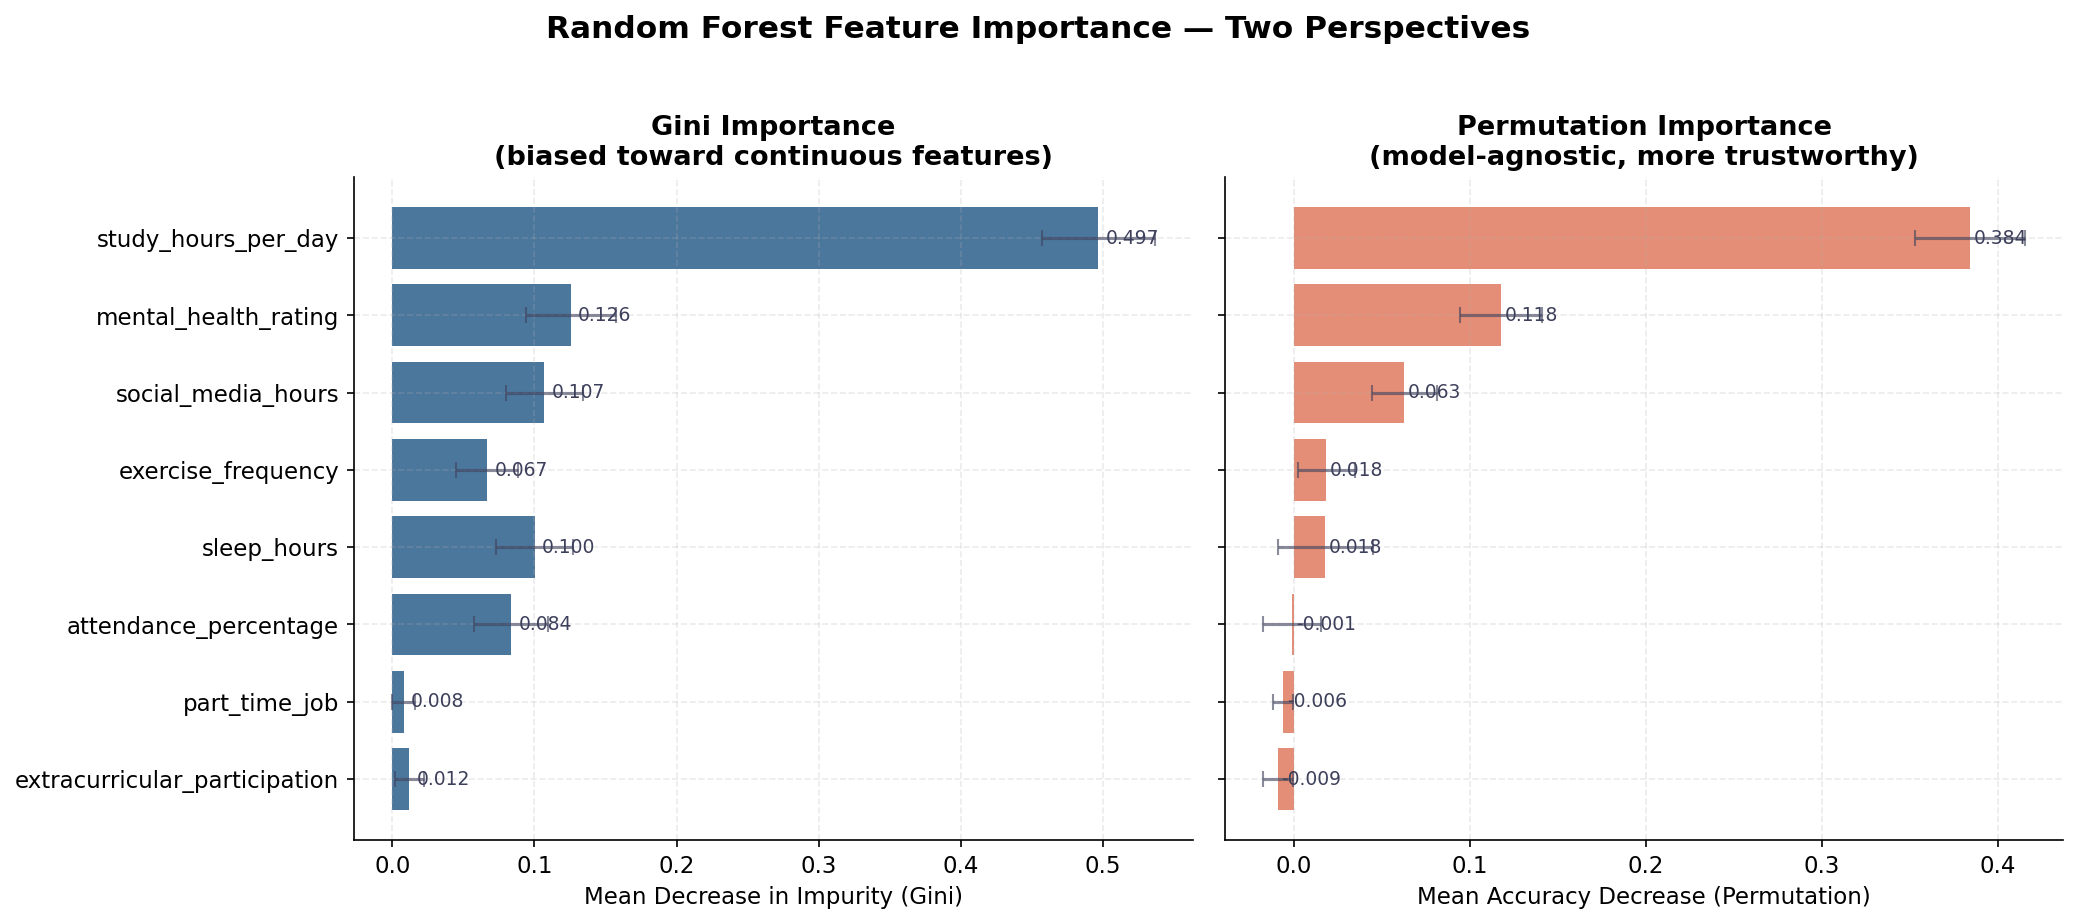
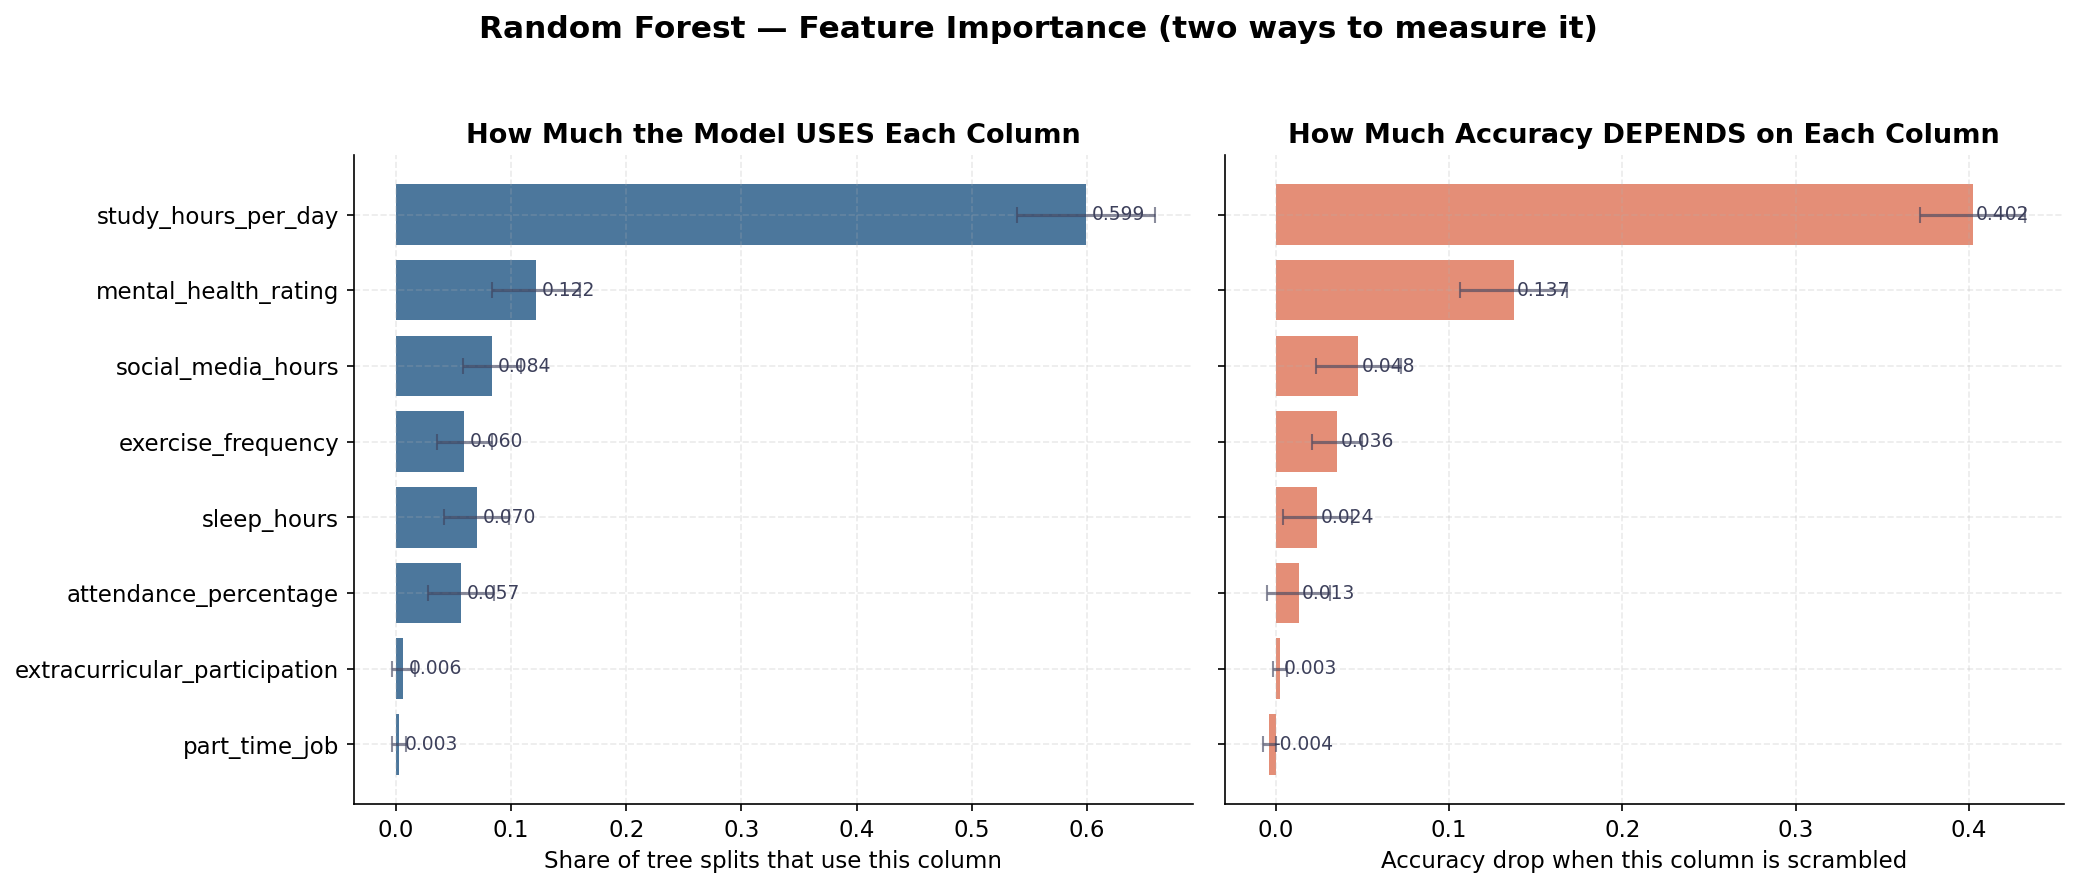
updated rnn and ffnn

diff --git a/src/ffnn.py b/src/ffnn.py
@@ -1,13 +1,15 @@
 import numpy as np
 import pandas as pd
 import matplotlib.pyplot as plt
+import copy
 import torch
 import torch.nn as nn
 from sklearn.model_selection import train_test_split
-from sklearn.metrics import ConfusionMatrixDisplay
+from sklearn.metrics import ConfusionMatrixDisplay, accuracy_score
 
 # set the random seed so its the same for ffnn and rnn,  betetr comparison
 torch.manual_seed(1)
+np.random.seed(1)
 
 class FFNN(nn.Module):
     def __init__(self, input_size):
@@ -81,6 +83,7 @@ student_data = data_processing('data/student_habits_performance.csv')
 
 features_df = student_data.drop(columns=['target'])
 target_df = student_data['target']
+feature_names = list(features_df.columns)
 
 # split data into training and temporary sets (70% train, 30% temp)
 features_train, features_temp, target_train, target_temp = train_test_split(features_df, target_df, test_size=0.3, random_state=1)
@@ -120,6 +123,13 @@ def calculate_accuracy(predictions, targets):
 print("Starting training...")
 num_epochs = 100
 
+# early stopping - same setup as rnn.py. also stash the best weights so we can
+# evaluate the model from the best epoch, not whatever epoch we happen to stop on.
+best_val_loss = float('inf')
+best_weights = None
+patience = 10
+counter = 0
+
 for epoch in range(num_epochs):
     model.train()
     
@@ -140,6 +150,21 @@ for epoch in range(num_epochs):
     
     if (epoch+1) % 10 == 0:
         print(f'Epoch [{epoch+1}/{num_epochs}], Training Loss: {loss.item():.1f}, Validation Loss: {val_loss.item():.4f}, Validation Accuracy: {val_accuracy*100:.2f}%')
+    
+    if val_loss < best_val_loss:
+        best_val_loss = val_loss
+        best_weights = copy.deepcopy(model.state_dict())
+        counter = 0
+    else:
+        counter += 1
+    
+    if counter >= patience:
+        print("Early stopping triggered at epoch {}".format(epoch + 1))
+        break
+
+# restore the best weights so test evaluation uses the model from the best epoch
+if best_weights is not None:
+    model.load_state_dict(best_weights)
 
 print("Training complete.")
 
@@ -153,12 +178,60 @@ with torch.no_grad():
     
     print(f'Real World Accuracy: {test_accuracy*100:.2f}%')
 
+# permutation importance - scramble one column at a time and see how much accuracy drops.
+# this is how we answer "how much does each column matter" for a neural net (the tree-style
+# "how often is this column used" doesnt apply since NNs use every input in every prediction)
+print("\ncomputing permutation importance...")
+baseline_preds = torch.argmax(test_predictions, dim=1).numpy()
+true_classes = y_test_tensor.numpy()
+baseline_acc = accuracy_score(true_classes, baseline_preds)
+
+n_repeats = 30
+rng = np.random.default_rng(1)
+X_test_np = X_test_tensor.numpy()
+
+perm_means = []
+perm_stds = []
+for j, feat in enumerate(feature_names):
+    drops = []
+    for _ in range(n_repeats):
+        X_shuffled = X_test_np.copy()
+        rng.shuffle(X_shuffled[:, j])  # scramble just this column
+        with torch.no_grad():
+            shuffled_preds = torch.argmax(model(torch.tensor(X_shuffled, dtype=torch.float32)), dim=1).numpy()
+        drops.append(baseline_acc - accuracy_score(true_classes, shuffled_preds))
+    perm_means.append(np.mean(drops))
+    perm_stds.append(np.std(drops))
+
+perm_means = np.array(perm_means)
+perm_stds = np.array(perm_stds)
+
+# sort so the most important features end up on top of the chart
+sort_idx = np.argsort(perm_means)
+sorted_names = [feature_names[i] for i in sort_idx]
+
+fig, ax = plt.subplots(figsize=(11, 6))
+y_pos = np.arange(len(sorted_names))
+ax.barh(y_pos, perm_means[sort_idx], xerr=perm_stds[sort_idx],
+        color='#6A4C93', alpha=0.88,
+        error_kw={'ecolor': '#3D405B', 'capsize': 4, 'alpha': 0.6})
+ax.set_yticks(y_pos)
+ax.set_yticklabels(sorted_names)
+ax.set_xlabel('Accuracy drop when this column is scrambled')
+ax.set_title('FFNN — How Much Accuracy DEPENDS on Each Column')
+
+for i, v in enumerate(perm_means[sort_idx]):
+    ax.text(v + 0.002, i, f'{v:.3f}', va='center', fontsize=9, color='#3D405B')
+
+plt.tight_layout()
+plt.savefig('ffnn_feature_importance.png', dpi=150, bbox_inches='tight')
+plt.show()
+
 # confusion matrix for visualization
 print("generating ffnn confusion matrix...")
 
 # turn the pytorch tensors back into numpy arrays so it works w/ confusion matrix
 predicted_classes = torch.argmax(test_predictions, dim=1).numpy()
-true_classes = y_test_tensor.numpy()
 
 ConfusionMatrixDisplay.from_predictions (
     true_classes,

diff --git a/src/rnn.py b/src/rnn.py
@@ -1,13 +1,15 @@
 import numpy as np
 import pandas as pd
 import matplotlib.pyplot as plt
+import copy
 import torch
 import torch.nn as nn
 from sklearn.model_selection import train_test_split
-from sklearn.metrics import ConfusionMatrixDisplay
+from sklearn.metrics import ConfusionMatrixDisplay, accuracy_score
 
 # set the random seed so its the same for ffnn and rnn,  betetr comparison
 torch.manual_seed(1)
+np.random.seed(1)
 
 class RNN(nn.Module):
     def __init__(self, input_size, hidden_layer):
@@ -84,6 +86,7 @@ student_data = data_processing('data/student_habits_performance.csv')
 
 features_df = student_data.drop(columns=['target'])
 target_df = student_data['target']
+feature_names = list(features_df.columns)
 
 # split data into training and temporary sets (70% train, 30% temp)
 features_train, features_temp, target_train, target_temp = train_test_split(features_df, target_df, test_size=0.3, random_state=1)
@@ -117,7 +120,10 @@ def calculate_accuracy(predictions, targets):
 print("Starting training...")
 num_epochs = 100
 
+# stash best weights so test evaluation uses the model from the best epoch,
+# not whatever epoch early stopping happens to trigger on
 best_val_loss = float('inf')
+best_weights = None
 patience = 10
 counter = 0
 
@@ -144,6 +150,7 @@ for epoch in range(num_epochs):
         
     if val_loss < best_val_loss:
         best_val_loss = val_loss
+        best_weights = copy.deepcopy(model.state_dict())
         counter = 0
     else:
         counter += 1
@@ -151,6 +158,10 @@ for epoch in range(num_epochs):
     if counter >= patience:
         print("Early stopping triggered at epoch {}".format(epoch + 1))
         break
+
+# restore best weights so we evaluate the best epoch's model, not the stopping epoch's
+if best_weights is not None:
+    model.load_state_dict(best_weights)
 
 print("Training complete.")
 
@@ -164,10 +175,57 @@ with torch.no_grad():
     
     print(f'Real World Accuracy: {test_accuracy*100:.2f}%')
 
+# permutation importance - scramble one column at a time, measure accuracy drop.
+# only showing the accuracy-based view since neural nets dont have a "how often is
+# this column used" metric - every input affects every prediction through the weights
+print("\ncomputing permutation importance...")
+baseline_preds = torch.argmax(test_predictions, dim=1).numpy()
+true_classes = y_test_tensor.numpy()
+baseline_acc = accuracy_score(true_classes, baseline_preds)
+
+n_repeats = 30
+rng = np.random.default_rng(1)
+X_test_np = X_test_tensor.numpy()
+
+perm_means = []
+perm_stds = []
+for j, feat in enumerate(feature_names):
+    drops = []
+    for _ in range(n_repeats):
+        X_shuffled = X_test_np.copy()
+        rng.shuffle(X_shuffled[:, j])
+        with torch.no_grad():
+            shuffled_preds = torch.argmax(model(torch.tensor(X_shuffled, dtype=torch.float32)), dim=1).numpy()
+        drops.append(baseline_acc - accuracy_score(true_classes, shuffled_preds))
+    perm_means.append(np.mean(drops))
+    perm_stds.append(np.std(drops))
+
+perm_means = np.array(perm_means)
+perm_stds = np.array(perm_stds)
+
+sort_idx = np.argsort(perm_means)
+sorted_names = [feature_names[i] for i in sort_idx]
+
+fig, ax = plt.subplots(figsize=(11, 6))
+y_pos = np.arange(len(sorted_names))
+ax.barh(y_pos, perm_means[sort_idx], xerr=perm_stds[sort_idx],
+        color='#E07A5F', alpha=0.88,
+        error_kw={'ecolor': '#3D405B', 'capsize': 4, 'alpha': 0.6})
+ax.set_yticks(y_pos)
+ax.set_yticklabels(sorted_names)
+ax.set_xlabel('Accuracy drop when this column is scrambled')
+ax.set_title('RNN — How Much Accuracy DEPENDS on Each Column')
+
+for i, v in enumerate(perm_means[sort_idx]):
+    ax.text(v + 0.002, i, f'{v:.3f}', va='center', fontsize=9, color='#3D405B')
+
+plt.tight_layout()
+plt.savefig('rnn_feature_importance.png', dpi=150, bbox_inches='tight')
+plt.show()
+
 # confusion matrix 
 print("generating rnn confusion matrix...")
 predicted_classes = torch.argmax(test_predictions, dim=1).numpy()
-true_classes = y_test_tensor.numpy()
 
 ConfusionMatrixDisplay.from_predictions (
     true_classes,